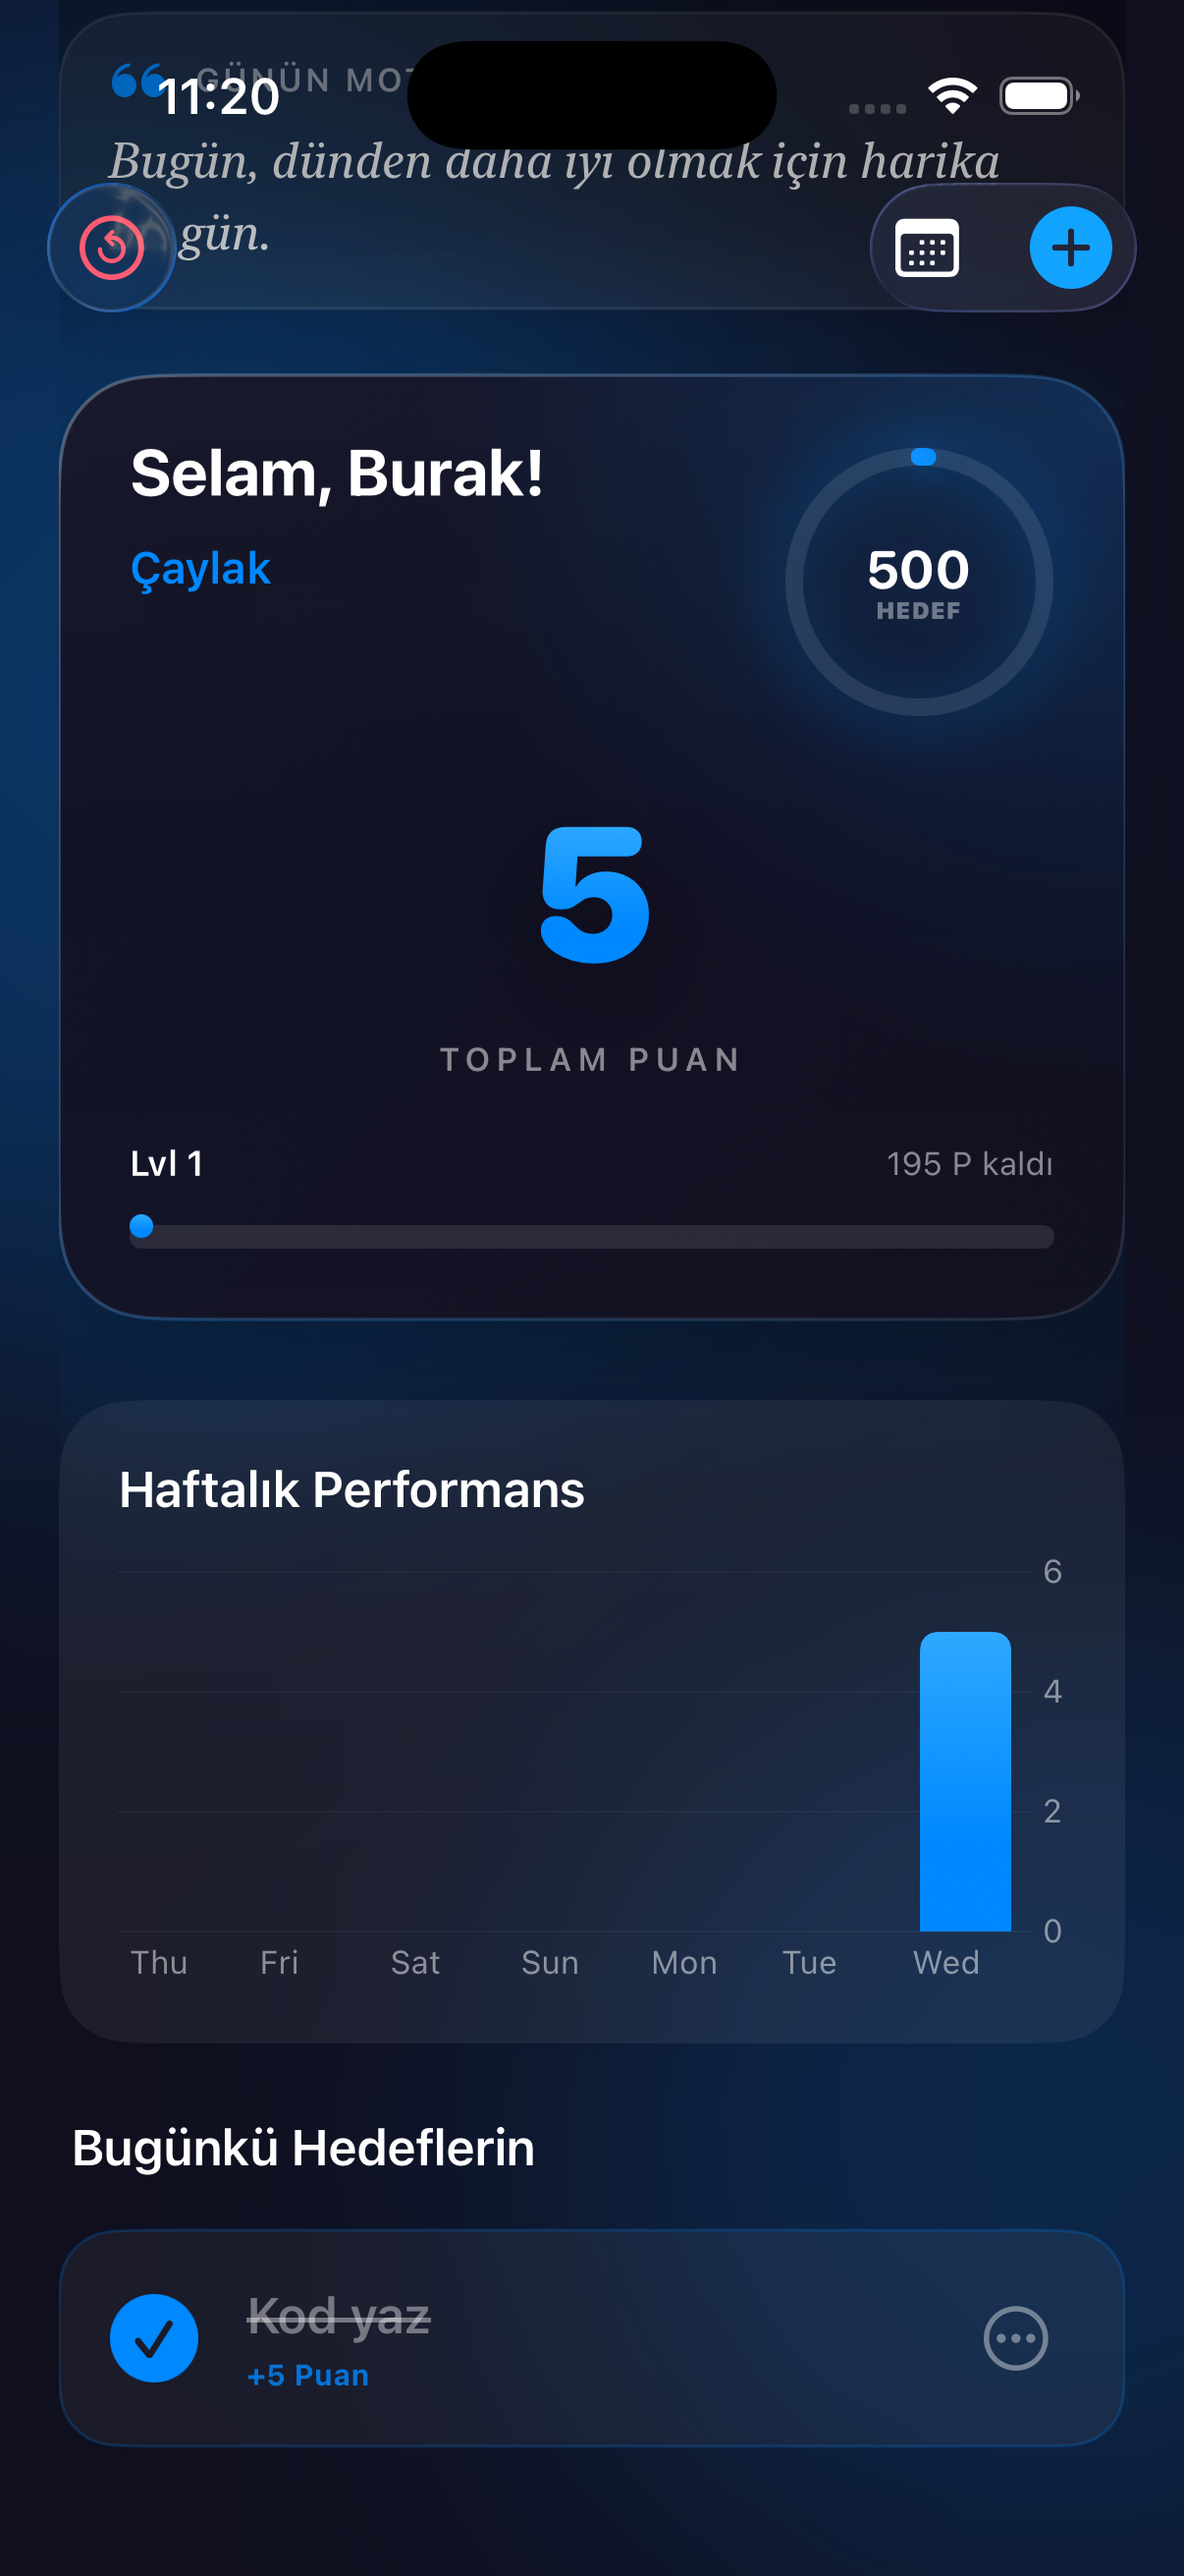
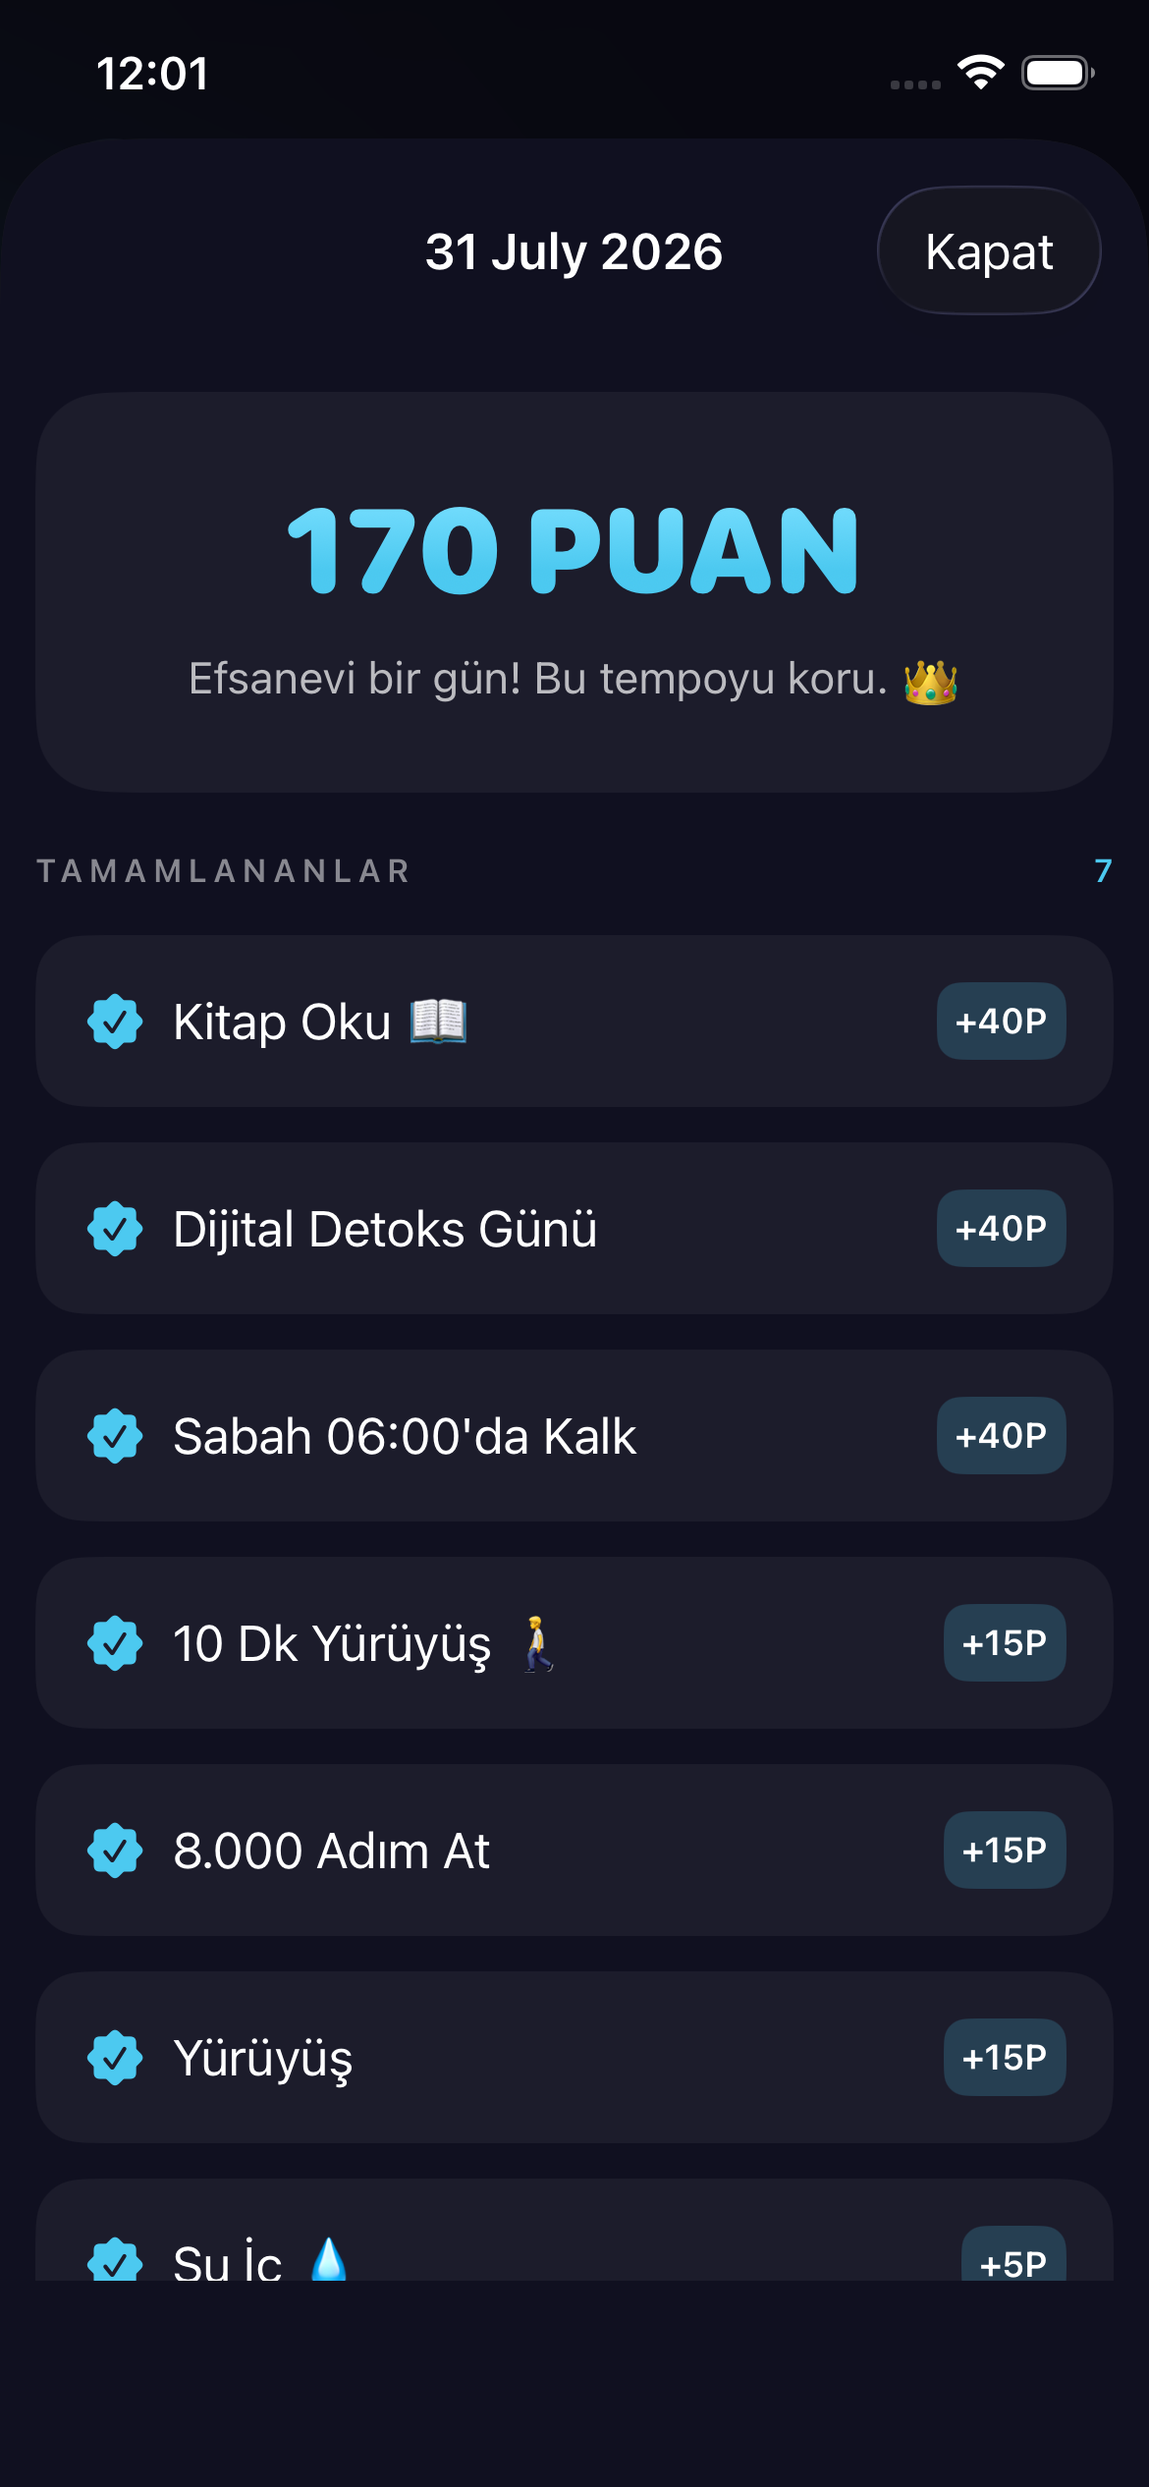
docs: ekran görüntülerini güncelle
- Eski ekran görüntüleri kaldırıldı
- Yeni akışa ait 8 görsel eklendi (dashboard, habit_list, achievements,
  add_habit_easy/hard, calendar, daily_detail, settings)
- README görsel bölümü tablo düzenine geçirildi

diff --git a/README.md b/README.md
@@ -29,16 +29,17 @@
 
 ## 📸 Ekran Görüntüleri
 
-<p align="center">
-  <img src="Screenshots/onboarding.png" width="200" />
-  <img src="Screenshots/dashboard.png" width="200" />
-  <img src="Screenshots/add_habit.png" width="200" />
-</p>
-<p align="center">
-  <img src="Screenshots/daily_detail.png" width="200" />
-  <img src="Screenshots/habit_list.png" width="200" />
-  <img src="Screenshots/level_system.png" width="200" />
-</p>
+| Ana Ekran | Günün Hedefleri | Rozetler |
+|:--:|:--:|:--:|
+| <img src="Screenshots/dashboard.png" width="220" /> | <img src="Screenshots/habit_list.png" width="220" /> | <img src="Screenshots/achievements.png" width="220" /> |
+
+| Hedef Ekle — Kolay | Hedef Ekle — Zor | Takvim |
+|:--:|:--:|:--:|
+| <img src="Screenshots/add_habit_easy.png" width="220" /> | <img src="Screenshots/add_habit_hard.png" width="220" /> | <img src="Screenshots/calendar.png" width="220" /> |
+
+| Günlük Detay | Ayarlar |
+|:--:|:--:|
+| <img src="Screenshots/daily_detail.png" width="220" /> | <img src="Screenshots/settings.png" width="220" /> |
 
 ---
 
